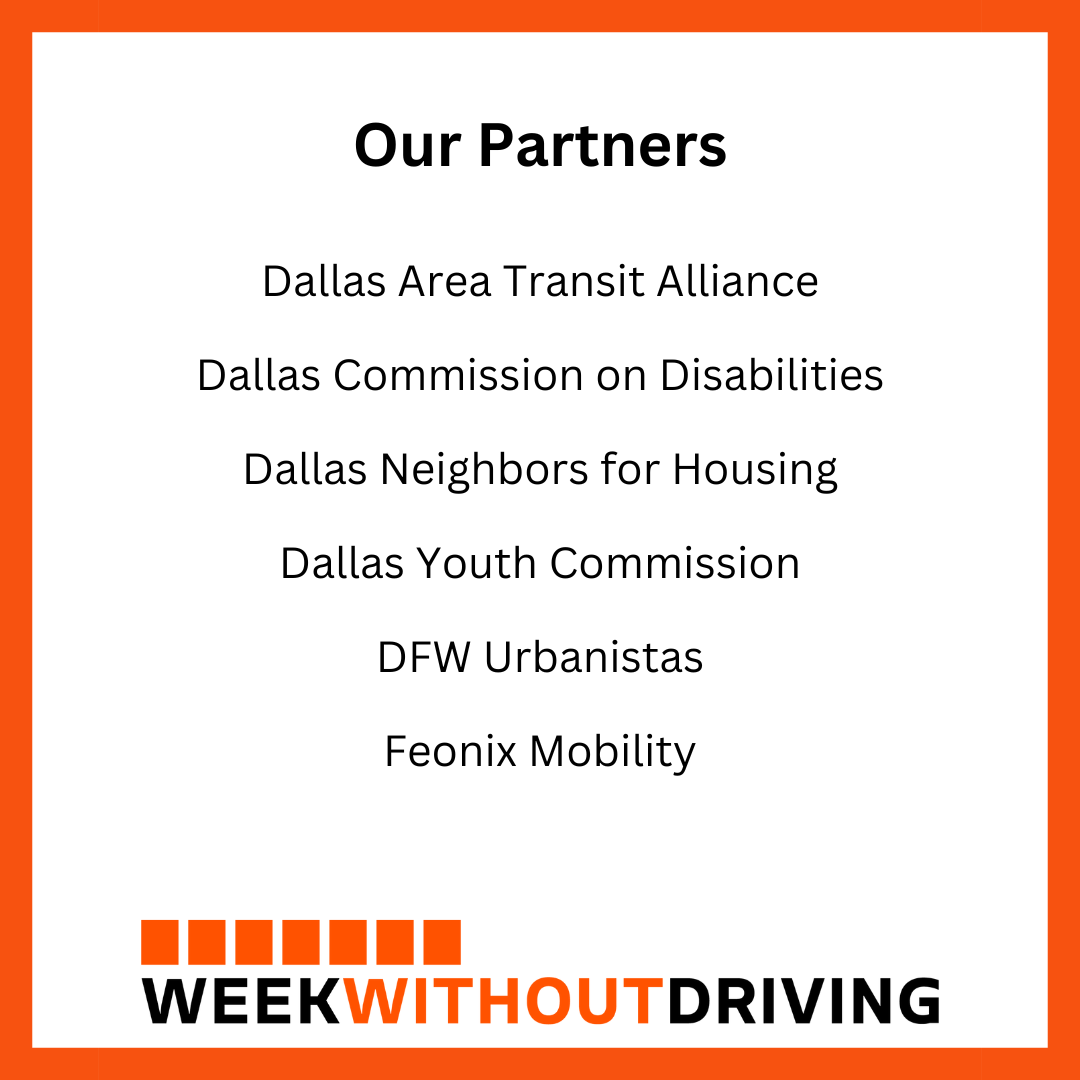
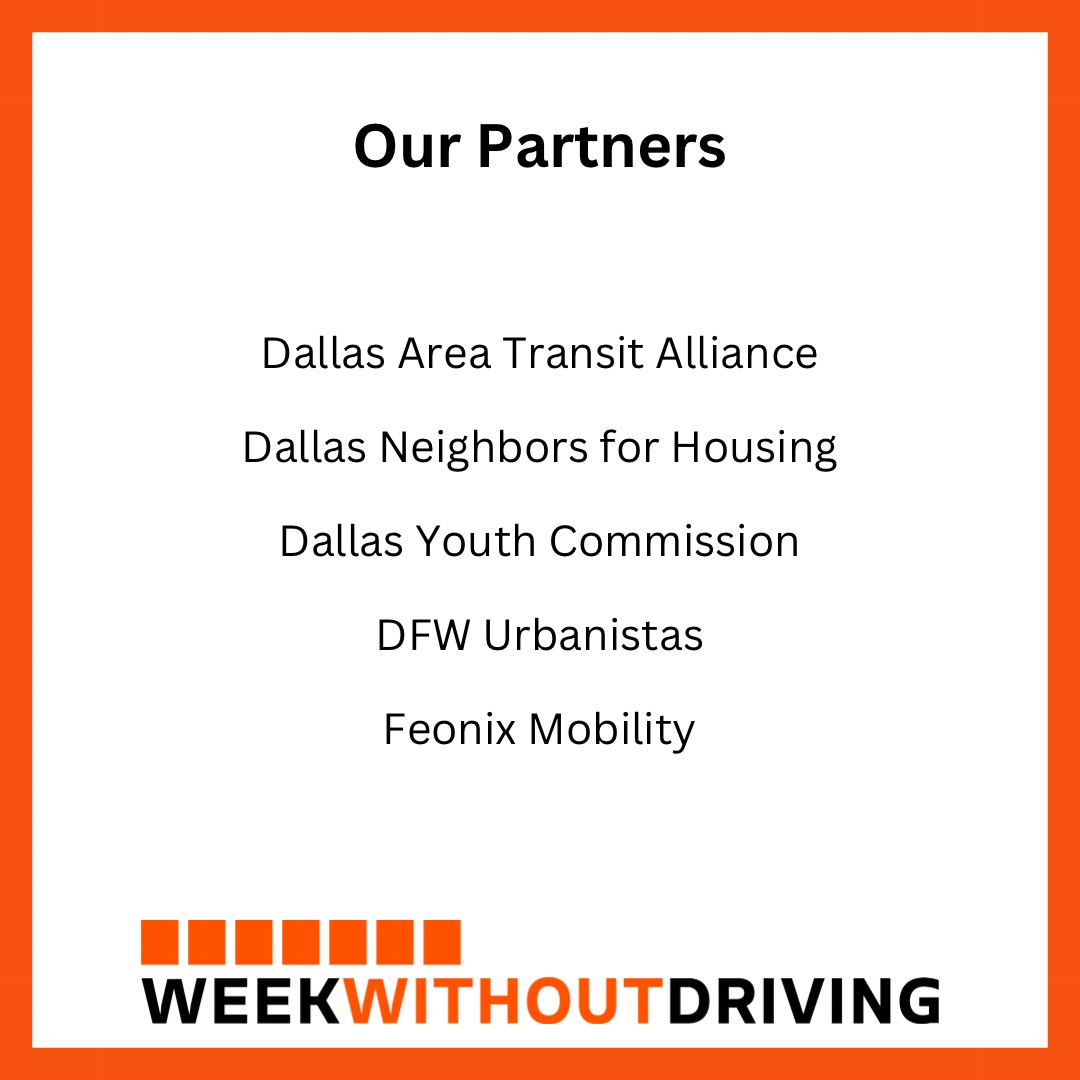
Remove Old Graphics (#53)
* Remove Old Graphics

* Fix excerpt

* Update september-2024-newsletter.md

* 25% img reduction

* Updated hero image size to 720x720

* Missed a renamed file

diff --git a/_posts/week-without-driving.md b/_posts/week-without-driving.md
@@ -1,13 +1,13 @@
 ---
 title: "Week Without Driving: September 30 - October 6, 2024"
-excerpt: "Nearly a third of people living in the United States – people with disabilities, young people, seniors and people who can’t afford cars or gas- do not drive. Join us in Week Without Driving co-hosted by Dallas Bicycle Coalition and Better Block, and partnered by Feonix Mobility, Dallas Area Transit Alliance, DFW Urbanistas, Dallas Youth Commission, Dallas Disability Commission, and Dallas Neighbors for Housing"
-coverImage: "/assets/blog/week-without-driving/WWD_Cover.png"
+excerpt: "Nearly a third of people living in the United States – people with disabilities, young people, seniors and people who can’t afford cars or gas- do not drive. Join us in Week Without Driving co-hosted by Dallas Bicycle Coalition and Better Block, and partnered by Feonix Mobility, Dallas Area Transit Alliance, DFW Urbanistas, Dallas Youth Commission, and Dallas Neighbors for Housing"
+coverImage: "/assets/blog/week-without-driving/WWD_Hero.png"
 date: "2024-09-16T05:00:00.000Z"
 author:
   name: DATA Team
   picture: "/assets/blog/authors/data-team.png"
 ogImage:
-  url: "/assets/blog/week-without-driving/WWD_Cover.png"
+  url: "/assets/blog/week-without-driving/WWD_Hero.png"
 banner: 
   text: "Join us in Week without Driving September 30 to October 6, 2024"
 ---
@@ -32,8 +32,10 @@ Dallas is a city built for cars, where it is difficult or dangerous to travel al
 ## Dallas Week Without Driving Partner Organizations:
 
 Co-hosts: [Dallas Bicycle Coalition](https://www.instagram.com/dallasbicyclecoalition/) and [Better Block](https://www.betterblock.org/).   
-Partners: [Feonix Mobility](https://feonix.org/), [DFW Urbanistas](https://www.instagram.com/urbanistasdfw/), [Dallas Youth Commission](https://dallascityhall.com/government/Boards-and-Commissions/Youth-Commission/Pages/default.aspx), [Dallas Commission on Disabilities](https://dallascityhall.com/government/Boards-and-Commissions/Commission-on-Disabilities/Pages/default.aspx), and [Dallas Neighbors for Housing](https://www.dallasneighborsforhousing.org/).  
+Partners: [Feonix Mobility](https://feonix.org/), [DFW Urbanistas](https://www.instagram.com/urbanistasdfw/), [Dallas Youth Commission](https://dallascityhall.com/government/Boards-and-Commissions/Youth-Commission/Pages/default.aspx), and [Dallas Neighbors for Housing](https://www.dallasneighborsforhousing.org/).  
 
 ![Image](/assets/blog/week-without-driving/WWD_Cover.png)  
-![Image](/assets/blog/week-without-driving/WWD_How_To.png)  
-![Image](/assets/blog/week-without-driving/WWD_Partners.png)  
+![Image](/assets/blog/week-without-driving/WWD_How_To.png) 
+![Image](/assets/blog/week-without-driving/WWD_Partners.png)
+<!-- When old partner graphic arrives ![Image](/assets/blog/week-without-driving/WWD_Partners_Old.png) --!>
+  

diff --git a/_posts/september-2024-newsletter.md b/_posts/september-2024-newsletter.md
@@ -47,7 +47,9 @@ Election details will be sent via [GroupMe](https://go.ridewithdata.org/groupme)
 
 ![Image](/assets/blog/september-2024-newsletter/DallasBicycleCoalition2.png)
 
-DATA is proud to announce that we will be participating in the Dallas Week without Driving co-hosted by [Dallas Bike Coalition](https://www.instagram.com/dallasbicyclecoalition/) and [Better Block](https://www.betterblock.org/). Also partnered are with [Feonix Mobility](https://feonix.org/), [DFW Urbanistas](https://www.instagram.com/urbanistasdfw/), [Dallas Youth Commission](https://dallascityhall.com/government/Boards-and-Commissions/Youth-Commission/Pages/default.aspx), [Dallas Disability Commission](https://dallascityhall.com/government/Boards-and-Commissions/Commission-on-Disabilities/Pages/default.aspx), and [Dallas Neighbors for Housing](https://www.dallasneighborsforhousing.org/).
+<!-- DATA is proud to announce that we will be participating in the Dallas Week without Driving co-hosted by [Dallas Bike Coalition](https://www.instagram.com/dallasbicyclecoalition/) and [Better Block](https://www.betterblock.org/). Also partnered are with [Feonix Mobility](https://feonix.org/), [DFW Urbanistas](https://www.instagram.com/urbanistasdfw/), [Dallas Youth Commission](https://dallascityhall.com/government/Boards-and-Commissions/Youth-Commission/Pages/default.aspx), [Dallas Disability Commission](https://dallascityhall.com/government/Boards-and-Commissions/Commission-on-Disabilities/Pages/default.aspx), and [Dallas Neighbors for Housing](https://www.dallasneighborsforhousing.org/). -->
+
+DATA is proud to announce that we will be participating in the Dallas Week without Driving co-hosted by [Dallas Bike Coalition](https://www.instagram.com/dallasbicyclecoalition/) and [Better Block](https://www.betterblock.org/). Also partnered are with [Feonix Mobility](https://feonix.org/), [DFW Urbanistas](https://www.instagram.com/urbanistasdfw/), [Dallas Youth Commission](https://dallascityhall.com/government/Boards-and-Commissions/Youth-Commission/Pages/default.aspx), and [Dallas Neighbors for Housing](https://www.dallasneighborsforhousing.org/).
 
 Join us by doing the following steps below:
 
